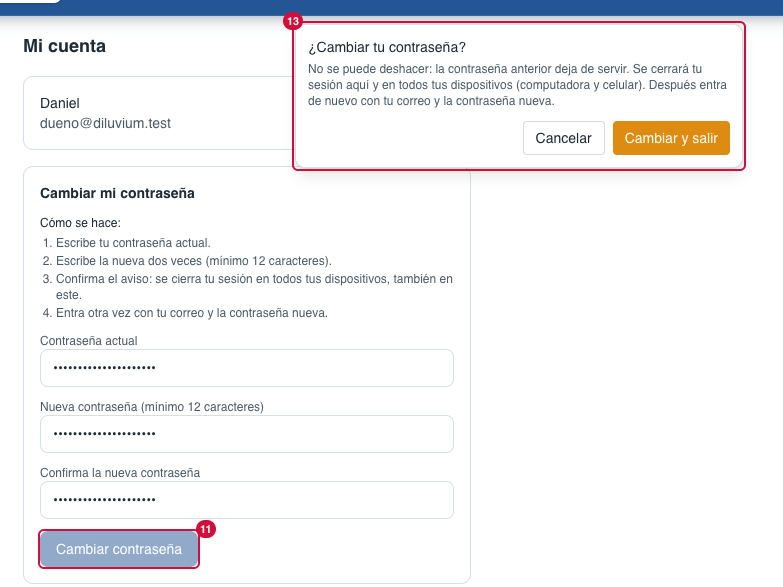
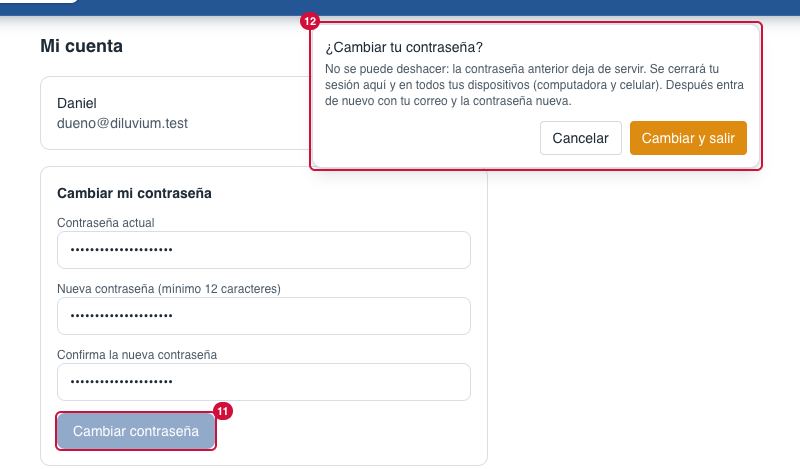
fix(mi-cuenta): sin la guía de 4 pasos; quedan el aviso y el mensaje de Iniciar sesión
El dueño pidió quitar la guía «Cómo se hace» (27-oct-2026). Se quedan el aviso
«¿Cambiar tu contraseña?» y el mensaje «Tu contraseña cambió…» de Iniciar sesión.
Mapa 3.9 sin el punto de la guía: el aviso pasa a 12 y el mensaje de entrada a 13
(ninguno había llegado a main); capturas rehechas.

Changed region(s): [[0.0, 0.0, 1.0, 0.3881], [0.0307, 0.1493, 0.613, 1.0], [0.5517, 0.8358, 0.5824, 0.8657]]

diff --git a/app/(app)/mi-cuenta/_components/my-account-form.tsx b/app/(app)/mi-cuenta/_components/my-account-form.tsx
@@ -1,9 +1,9 @@
 "use client";
 
-// "Mi cuenta": cualquier usuario cambia SU contraseña (pide la actual). Guía de 4 pasos y,
-// antes de cambiarla, un aviso: no se deshace y se cierra su sesión en TODOS sus dispositivos,
-// también en este (decisión del dueño, 27-oct-2026). Si sale bien, la acción lleva a «Iniciar
-// sesión» con el aviso de entrar con la nueva; aquí solo regresa si falló.
+// "Mi cuenta": cualquier usuario cambia SU contraseña (pide la actual). Antes de cambiarla, un
+// aviso: no se deshace y se cierra su sesión en TODOS sus dispositivos, también en este (decisión
+// del dueño, 27-oct-2026; sin guía de pasos, la quitó el mismo día). Si sale bien, la acción lleva
+// a «Iniciar sesión» con el aviso de entrar con la nueva; aquí solo regresa si falló.
 import { useState } from "react";
 import { unstable_rethrow } from "next/navigation";
 import { TopConfirm } from "@/components/ui/top-confirm";
@@ -51,15 +51,6 @@ export function MyAccountForm({ name, email }: { name: string; email: string }) 
       </div>
       <form onSubmit={submit} className="space-y-3 rounded-lg border bg-card p-4">
         <h2 className="text-sm font-semibold">Cambiar mi contraseña</h2>
-        <div className="space-y-1 text-xs text-muted-foreground">
-          <p className="font-medium text-foreground">Cómo se hace:</p>
-          <ol className="list-decimal space-y-0.5 pl-4">
-            <li>Escribe tu contraseña actual.</li>
-            <li>Escribe la nueva dos veces (mínimo 12 caracteres).</li>
-            <li>Confirma el aviso: se cierra tu sesión en todos tus dispositivos, también en este.</li>
-            <li>Entra otra vez con tu correo y la contraseña nueva.</li>
-          </ol>
-        </div>
         <label className="block space-y-1 text-xs">
           <span className="text-muted-foreground">Contraseña actual</span>
           <input type="password" autoComplete="current-password" required value={current} onChange={(e) => setCurrent(e.target.value)} className={inputClass} />

diff --git a/docs/mapa-crm/3.9-menu-del-usuario.md b/docs/mapa-crm/3.9-menu-del-usuario.md
@@ -5,8 +5,8 @@
 Abajo del menú lateral, para todos.
 
 ![Menú del usuario y Mi cuenta](12-mi-cuenta.png)
-![Aviso «¿Cambiar tu contraseña?» (13)](12-mi-cuenta-aviso.png)
-![Aviso en Iniciar sesión después del cambio (14)](12-mi-cuenta-entrar.png)
+![Aviso «¿Cambiar tu contraseña?» (12)](12-mi-cuenta-aviso.png)
+![Aviso en Iniciar sesión después del cambio (13)](12-mi-cuenta-entrar.png)
 
 | # | Nombre oficial | Qué hace | Quién lo ve |
 |---|---|---|---|
@@ -20,10 +20,9 @@ Abajo del menú lateral, para todos.
 | 8 | **Contraseña actual** | La que usas hoy. | Todos |
 | 9 | **Nueva contraseña (mínimo 12 caracteres)** | La nueva. | Todos |
 | 10 | **Confirma la nueva contraseña** | Repetirla. | Todos |
-| 11 | **Cambiar contraseña** | No la cambia todavía: abre el aviso de arriba (13). | Todos |
-| 12 | **Cómo se hace** | Guía de 4 pasos (27-oct-2026): escribir la actual; la nueva dos veces; confirmar el aviso (se cierra tu sesión en todos tus dispositivos, también en este); entrar otra vez con tu correo y la contraseña nueva. | Todos |
-| 13 | **Aviso «¿Cambiar tu contraseña?»** | Sale arriba, centrado (27-oct-2026): «No se puede deshacer: la contraseña anterior deja de servir. Se cerrará tu sesión aquí y en todos tus dispositivos (computadora y celular). Después entra de nuevo con tu correo y la contraseña nueva.» **Cambiar y salir** (naranja) la cambia, cierra **todas** tus sesiones y te lleva a Iniciar sesión (14); **Cancelar**, Esc o un clic afuera lo cierran. Si la actual está mal, no cambia nada, sigues dentro y abajo del formulario dice «La contraseña actual no es correcta.» | Todos |
-| 14 | **Aviso de Iniciar sesión** | Después del cambio, arriba del formulario de entrada: «Tu contraseña cambió y se cerraron tus sesiones. Entra con tu correo y la contraseña nueva.» En tus otros dispositivos (celular, otra computadora) también te pide entrar otra vez. | Todos |
+| 11 | **Cambiar contraseña** | No la cambia todavía: abre el aviso de arriba (12). | Todos |
+| 12 | **Aviso «¿Cambiar tu contraseña?»** | Sale arriba, centrado (27-oct-2026): «No se puede deshacer: la contraseña anterior deja de servir. Se cerrará tu sesión aquí y en todos tus dispositivos (computadora y celular). Después entra de nuevo con tu correo y la contraseña nueva.» **Cambiar y salir** (naranja) la cambia, cierra **todas** tus sesiones y te lleva a Iniciar sesión (13); **Cancelar**, Esc o un clic afuera lo cierran. Si la actual está mal, no cambia nada, sigues dentro y abajo del formulario dice «La contraseña actual no es correcta.» | Todos |
+| 13 | **Aviso de Iniciar sesión** | Después del cambio, arriba del formulario de entrada: «Tu contraseña cambió y se cerraron tus sesiones. Entra con tu correo y la contraseña nueva.» En tus otros dispositivos (celular, otra computadora) también te pide entrar otra vez. | Todos |
 
 **Lo cambias tú desde la pantalla:** tu contraseña.
 
